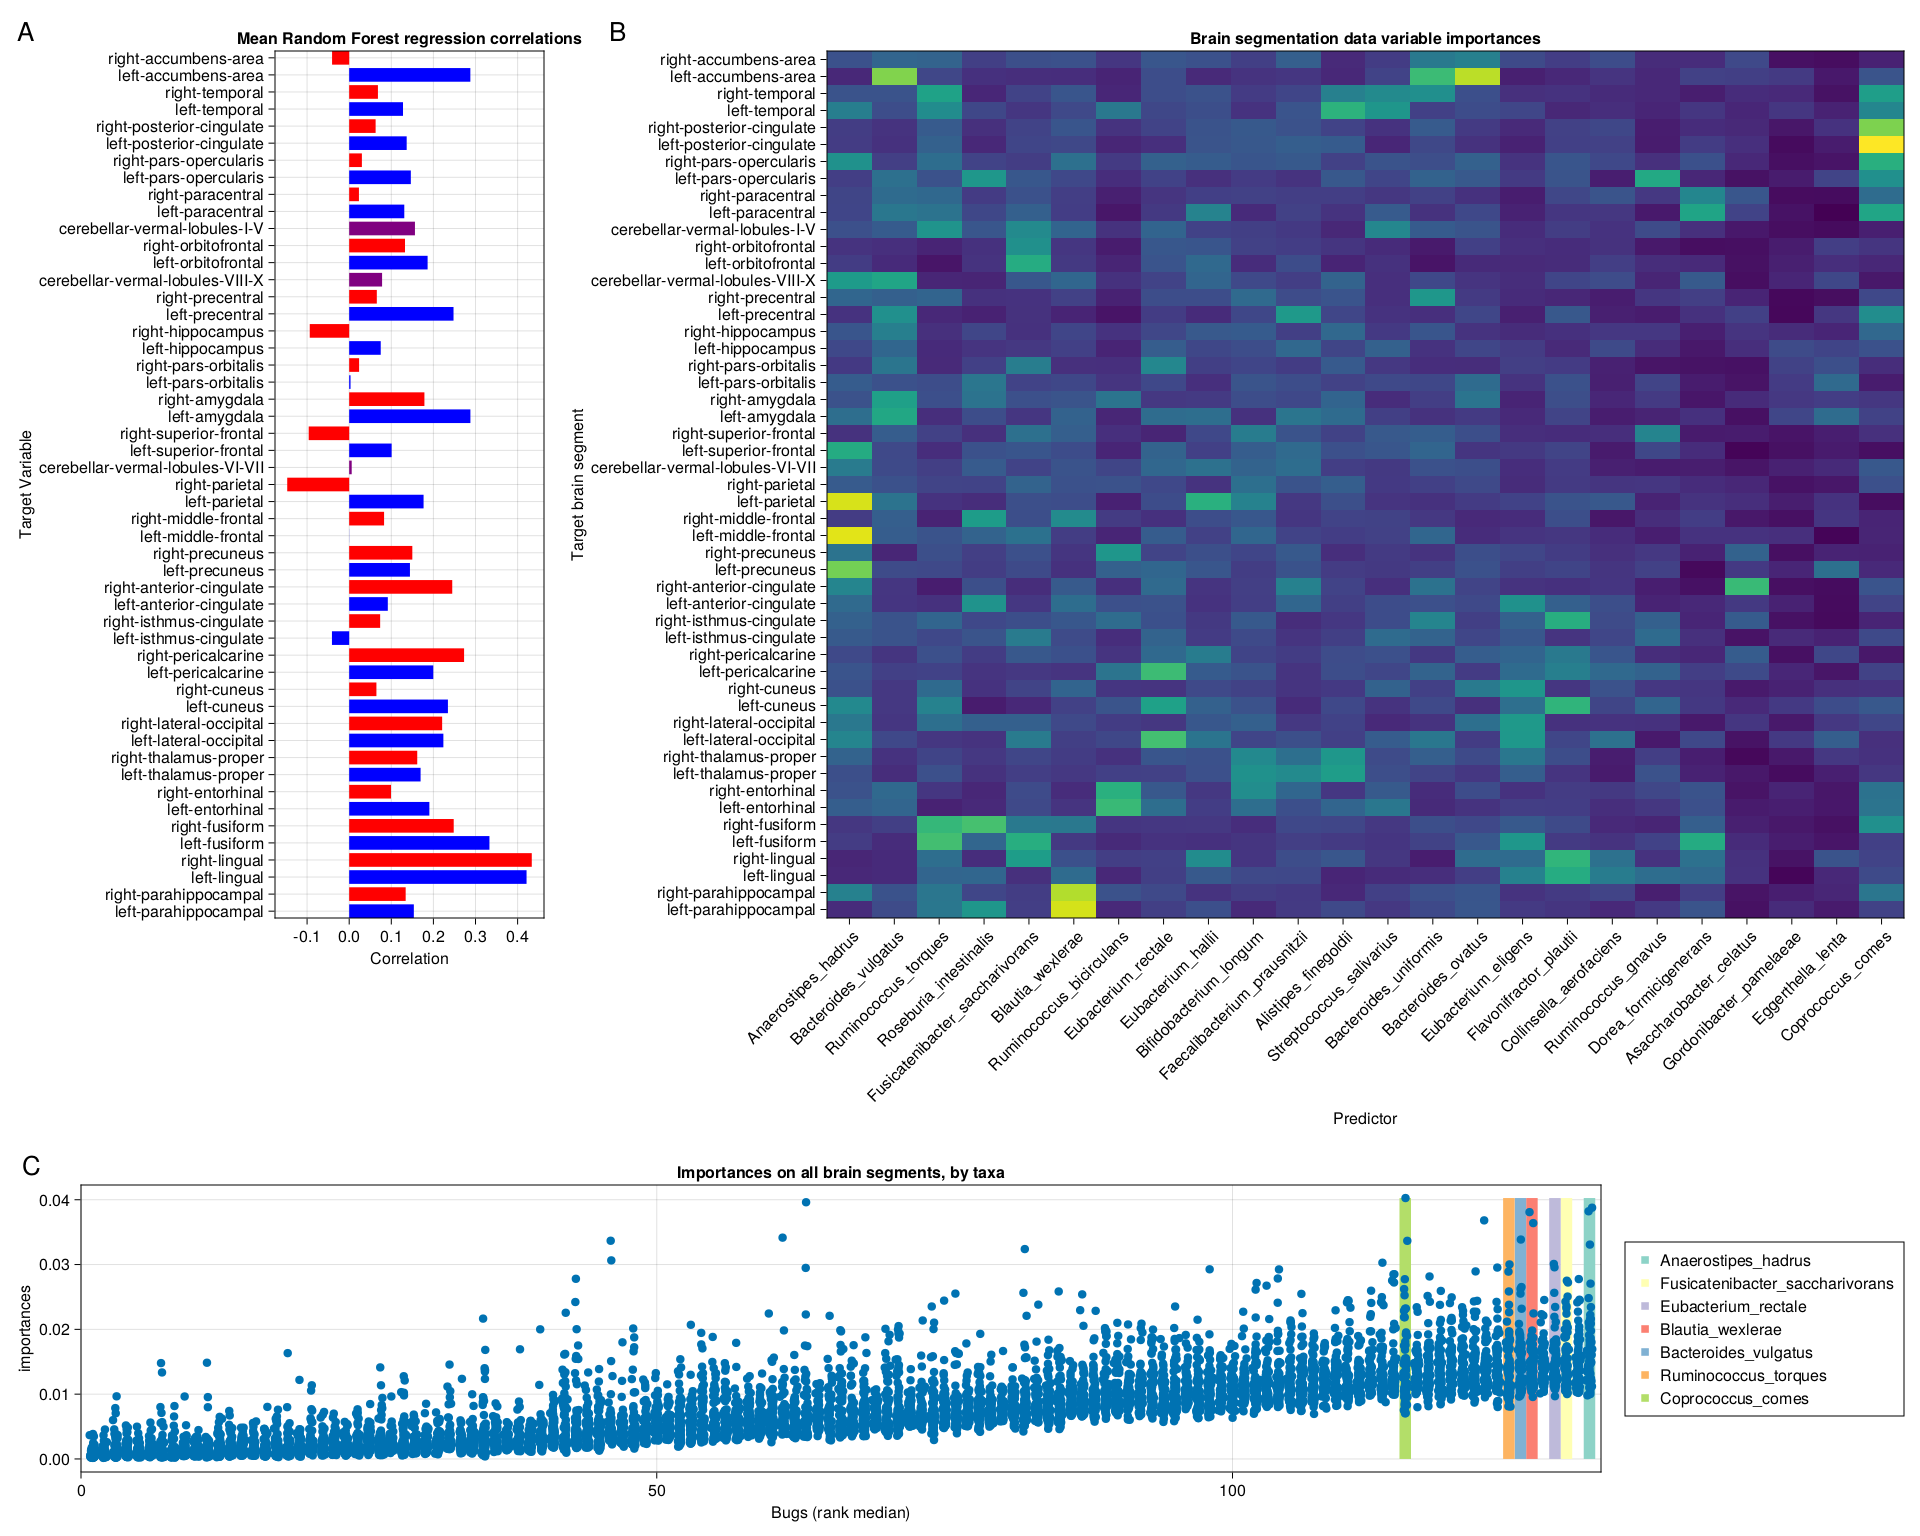
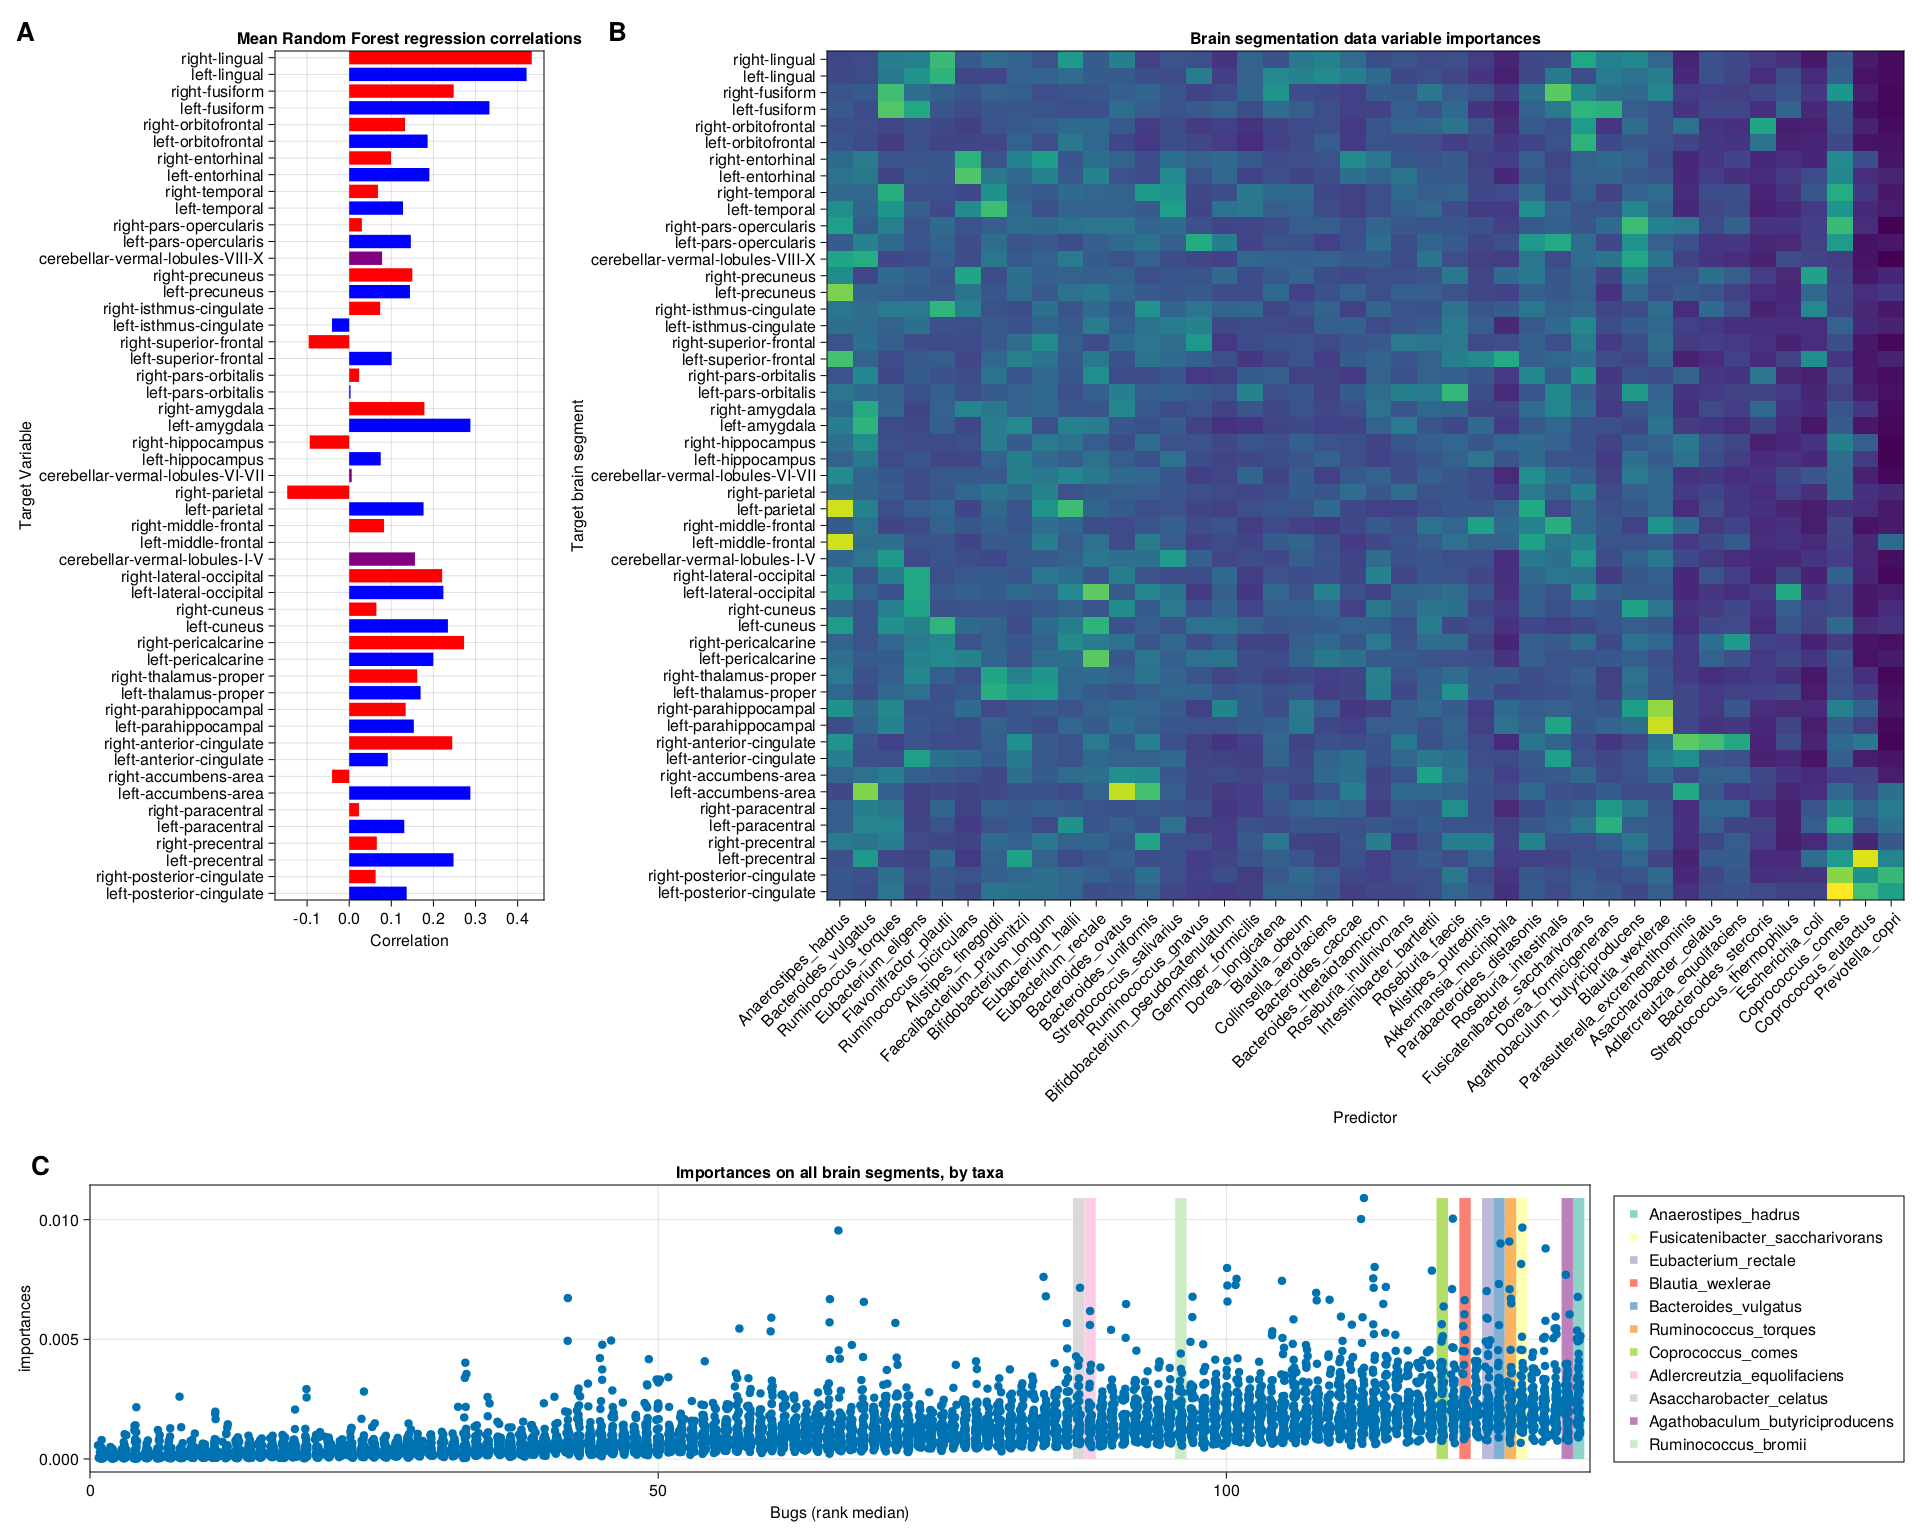
commiting some changes to a new branch to start final tweaks to figures 3 and 4

diff --git a/manuscript/Figure4.md b/manuscript/Figure4.md
@@ -1,4 +1,4 @@
-# Figure3 - RandomForest prediction of cogScores from DEM, Taxonomic and Functional Profiles
+# Figure4 - RandomForest prediction of Brain Segments from DEMO + Taxonomic Profiles
 ```julia
 using Chain
 using CSV
@@ -48,7 +48,6 @@ end
 
 ## Loading the pretrained models
 ```julia
-RandomForestClassifier = MLJ.@load RandomForestClassifier pkg=DecisionTree
 RandomForestRegressor = MLJ.@load RandomForestRegressor pkg=DecisionTree
 # concurrent brain regression from taxonomic profiles
 JLD2.@load "models/2023-02-15/brain_models.jld"
@@ -148,31 +147,48 @@ symmetric_segment_strings = [
 ]
 
 interesting_taxa = [
-    # "ageMonths",
-    "Anaerostipes_hadrus",
-    "Fusicatenibacter_saccharivorans",
-    "Eubacterium_rectale",
-    "Eubacterium_hallii",
-    "Blautia_wexlerae",
-    "Bacteroides_vulgatus",
-    "Faecalibacterium_prausnitzii",
-    "Ruminococcus_torques",
-    "Bifidobacterium_longum",
-    "Bacteroides_ovatus",
-    "Bacteroides_uniformis",
-    "Coprococcus_comes",
+    "Adlercreutzia_equolifaciens",
+    "Agathobaculum_butyriciproducens",
+    "Akkermansia_muciniphila",
     "Alistipes_finegoldii",
-    "Flavonifractor_plautii",
-    "Roseburia_intestinalis",
-    "Streptococcus_salivarius",
-    "Eubacterium_eligens",
-    "Ruminococcus_bicirculans",
-    "Collinsella_aerofaciens",
-    "Ruminococcus_gnavus",
-    "Dorea_formicigenerans",
-    "Eggerthella_lenta",
+    "Alistipes_putredinis",
+    "Anaerostipes_hadrus",
     "Asaccharobacter_celatus",
-    "Gordonibacter_pamelaeae"
+    "Bacteroides_caccae",
+    "Bacteroides_ovatus",
+    "Bacteroides_stercoris",
+    "Bacteroides_thetaiotaomicron",
+    "Bacteroides_uniformis",
+    "Bacteroides_vulgatus",
+    "Bifidobacterium_longum",
+    "Bifidobacterium_pseudocatenulatum",
+    "Blautia_obeum",
+    "Blautia_wexlerae",
+    "Collinsella_aerofaciens",
+    "Coprococcus_comes",
+    "Coprococcus_eutactus",
+    "Dorea_formicigenerans",
+    "Dorea_longicatena",
+    "Escherichia_coli",
+    "Eubacterium_eligens",
+    "Eubacterium_hallii",
+    "Eubacterium_rectale",
+    "Faecalibacterium_prausnitzii",
+    "Flavonifractor_plautii",
+    "Fusicatenibacter_saccharivorans",
+    "Gemmiger_formicilis",
+    "Intestinibacter_bartlettii",
+    "Parabacteroides_distasonis",
+    "Parasutterella_excrementihominis",
+    "Prevotella_copri",
+    "Roseburia_faecis",
+    "Roseburia_intestinalis",
+    "Roseburia_inulinivorans",
+    "Ruminococcus_bicirculans",
+    "Ruminococcus_gnavus",
+    "Ruminococcus_torques",
+    "Streptococcus_salivarius",
+    "Streptococcus_thermophilus"
 ]
 ```
 
@@ -203,48 +219,39 @@ mean_brain_merits = reduce(
 
 #### Compute the mean importances loading of taxa on Brain sement regressions
 ```julia
-mean_brain_importances = reduce(
+weighted_brain_importances = reduce(
     (x, y) -> outerjoin(x, y, on = :variable, makeunique=true),
     [ 
-        DataFrame(:variable => j.importances.variable, Symbol(split(j.name, '_')[2]) => map(mean, eachrow(j.importances[:, 2:end]))) 
+        rename!(weighted_hpimportances(j), :weightedImportance => Symbol(split(j.name, '_')[2]))
         for (i, j) in brain_models
     ]
 )
 
-relative_brain_importances = combine(
-    mean_brain_importances,
+relative_brain_importances = DataFrames.combine(
+    weighted_brain_importances,
     :variable => :variable,
-        Symbol.(names(mean_brain_importances))[2:end] .=> (x -> x ./ sum(x)) .=> Symbol.(names(mean_brain_importances)[2:end])
+        Symbol.(names(weighted_brain_importances))[2:end] .=> (x -> x ./ sum(x)) .=> Symbol.(names(weighted_brain_importances)[2:end])
 )
-
-get_relative_importances_segment(sseg) = sort(select(relative_brain_importances, ["variable", sseg]), Symbol(sseg), rev=true)
-get_relative_importances_segment("left-posterior-cingulate")
-get_relative_importances_segment("left-pars-opercularis")
-get_relative_importances_segment("right-pars-opercularis")
-get_relative_importances_segment("left-precentral")
-get_relative_importances_segment("right-precentral")
-get_relative_importances_segment("left-paracentral")
-get_relative_importances_segment("right-paracentral")
-
 ```
 
-#### Filter the tables accordign to the lsit of interesting taxa and segments
+#### Filter the tables according to the list of interesting segments
 ```julia
 interesting_segments_idxes = mean_brain_merits.variable .∈ Ref(interesting_segments)
-interesting_taxa_idxes = mean_brain_importances.variable .∈ Ref(interesting_taxa)
-
 mean_brain_merits = mean_brain_merits[interesting_segments_idxes, :]
-mean_brain_importances = mean_brain_importances[interesting_taxa_idxes, vcat(["variable"], interesting_segments) ]
+#relative_brain_importances = relative_brain_importances[:, vcat(["variable"], interesting_segments) ]
+
+interesting_taxa_idxes = relative_brain_importances.variable .∈ Ref(interesting_taxa)
+relative_brain_importances = relative_brain_importances[interesting_taxa_idxes, vcat(["variable"], interesting_segments) ]
 ```
 
 #### Perform hierarchical clustering
 ```julia
-transposedImportances = DataFrame(permutedims(Matrix(mean_brain_importances)), :auto)
+transposedImportances = DataFrame(permutedims(Matrix(relative_brain_importances)), :auto)
 transposedImportances = rename!(transposedImportances, Symbol.(Vector(transposedImportances[1,:])))[2:end,:]
 insertcols!(transposedImportances, 1, :symmetricSegment => symmetric_segment_strings)
 insertcols!(transposedImportances, 1, :longSegment => interesting_segments)
 
-combinedTransposedImportances = combine(
+combinedTransposedImportances = DataFrames.combine(
     groupby(transposedImportances, :symmetricSegment),
     Symbol.(names(transposedImportances))[3:end] .=> mean .=> Symbol.(names(transposedImportances))[3:end]
 )
@@ -280,7 +287,8 @@ plot_segments_order = reorder_segments_df.plot_order
 ### using the hclust to reorder all we need
 ```julia
 mean_brain_merits = mean_brain_merits[plot_segments_order, :]
-mean_brain_importances = mean_brain_importances[hclust_taxa_order, vcat( [ 1 ], (plot_segments_order .+ 1))]
+relative_brain_importances = relative_brain_importances[hclust_taxa_order, vcat( [ 1 ], (plot_segments_order .+ 1))]
+#relative_brain_importances = relative_brain_importances[sortperm(map(mean, eachrow(relative_brain_importances[:, 2:end])); rev=true), vcat( [ 1 ], (plot_segments_order .+ 1))]
 ```
 
 ### Calling the plot functions with the ordered data
@@ -311,20 +319,22 @@ barplot!(
 ######
 # Importance Heatmaps
 ######
+nbugs_toplot = length(interesting_taxa) # the top 1/3 bugs (out of 129) From intersecting the top mean importances and top max importances
+
 axB = Axis(
     B_subfig[1, 1];
     xlabel = "Predictor",
-    xticks = (collect(1:length(interesting_taxa)), mean_brain_importances.variable),
+    xticks = (collect(1:nbugs_toplot), relative_brain_importances.variable[1:nbugs_toplot]),
     xticklabelsize=16,
     xticklabelrotation= pi/4,
     ylabel = "Target brain segment",
-    yticks = (collect(1:length(interesting_segments)), names(mean_brain_importances)[2:end]),
+    yticks = (collect(1:length(interesting_segments)), names(relative_brain_importances)[2:end]),
     yticklabelsize=16,
     yreversed=true,
     title = "Brain segmentation data variable importances"
 )
 
-CairoMakie.heatmap!(axB, Matrix(mean_brain_importances[:, 2:end]), yflip=true)
+CairoMakie.heatmap!(axB, Matrix(relative_brain_importances[1:nbugs_toplot, 2:end]), yflip=true)
 
 ######
 # Scatterplot
@@ -337,7 +347,9 @@ mean_brain_importances = reduce(
     ]
 )
 
-noage = mean_brain_importances[[1, 2, collect(4:end)...], :]
+weighted_brain_importances = weighted_brain_importances[:, vcat(["variable"], interesting_segments)]
+mean_brain_importances = weighted_brain_importances
+noage = mean_brain_importances[2:end, :]
 
 idx = sortperm([median(row[2:end]) for row in eachrow(noage)])
 ys = reduce(vcat, [values(noage[i, 2:end])...] for i in idx)
@@ -359,6 +371,10 @@ imp_bugs = [
     "Bacteroides_vulgatus",
     "Ruminococcus_torques",
     "Coprococcus_comes",
+    "Adlercreutzia_equolifaciens",
+    "Asaccharobacter_celatus",
+    "Agathobaculum_butyriciproducens",
+    "Ruminococcus_bromii"
 ]
 maximp = maximum(Matrix(noage[!, 2:end]))
     
@@ -369,9 +385,9 @@ end
 CairoMakie.scatter!(axC, xs .+ rand(Normal(0, 0.1), length(xs)), ys;)
 Legend(C_subfig[1,2], [MarkerElement(; marker=:rect, color = ColorSchemes.Set3_12[i]) for i in 1:length(imp_bugs)], imp_bugs)
 
-Label(A_subfig[1, 1, TopLeft()], "A", textsize = 26,font = :bold, padding = (0, 240, 5, 0), halign = :right)
-Label(B_subfig[1, 1, TopLeft()], "B", textsize = 26,font = :bold, padding = (0, 200, 5, 0), halign = :right)
-Label(C_subfig[1, 1, TopLeft()], "C", textsize = 26,font = :bold, padding = (0, 40, 5, 0), halign = :right)
+Label(A_subfig[1, 1, TopLeft()], "A", fontsize = 26,font = :bold, padding = (0, 240, 5, 0), halign = :right)
+Label(B_subfig[1, 1, TopLeft()], "B", fontsize = 26,font = :bold, padding = (0, 200, 5, 0), halign = :right)
+Label(C_subfig[1, 1, TopLeft()], "C", fontsize = 26,font = :bold, padding = (0, 40, 5, 0), halign = :right)
 
 save("manuscript/assets/Figure4.png", figure)
 ```
@@ -417,7 +433,5 @@ save("manuscript/assets/Figure4.png", figure)
 #     )
 # )
 
-
 # println("$(median(vars_to_cumulative_threshold.vars_to_threshold)), $(std(vars_to_cumulative_threshold.vars_to_threshold))")
-
 ```
